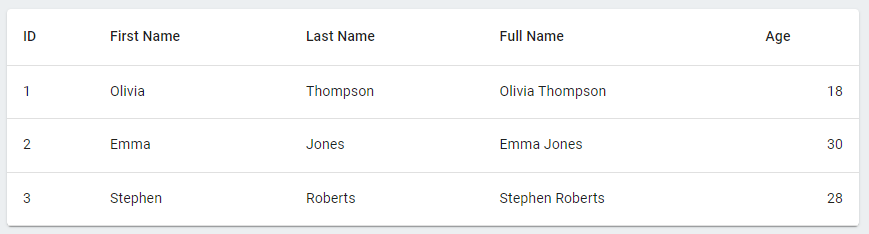
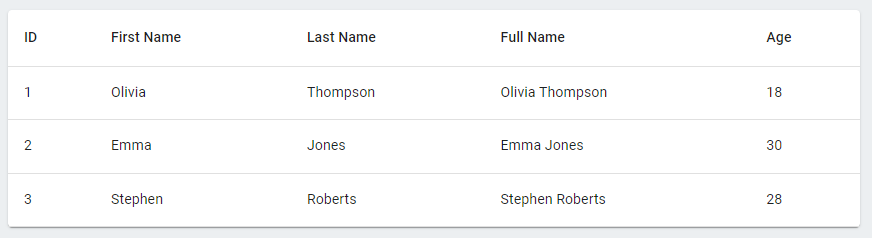
Fix decimal for real this time

diff --git a/src/components/Renderers/DecimalRenderer.tsx b/src/components/Renderers/DecimalRenderer.tsx
@@ -56,7 +56,7 @@ export const DecimalRenderer = ({
   const dpf = decimalPrecisionFormatter(precision)
   return (
     <TableCell align={align}>
-      <Typography variant="body2" align="right">
+      <Typography variant="body2">
         {`${prefix}${dpf.format(row[key] || 0)}${suffix}`}
       </Typography>
     </TableCell>
